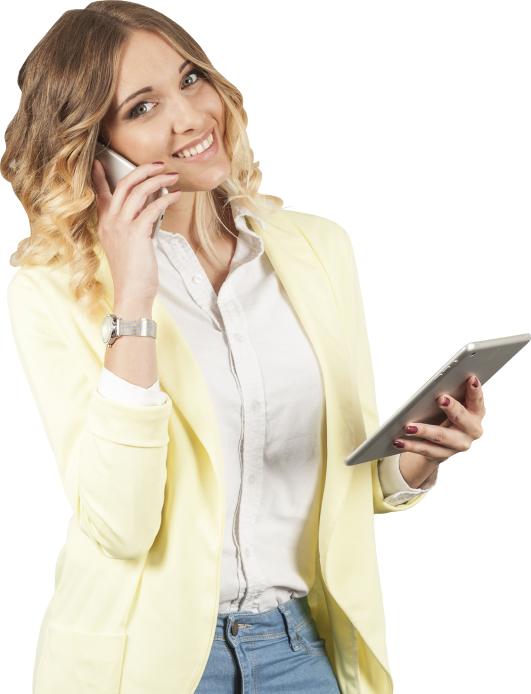
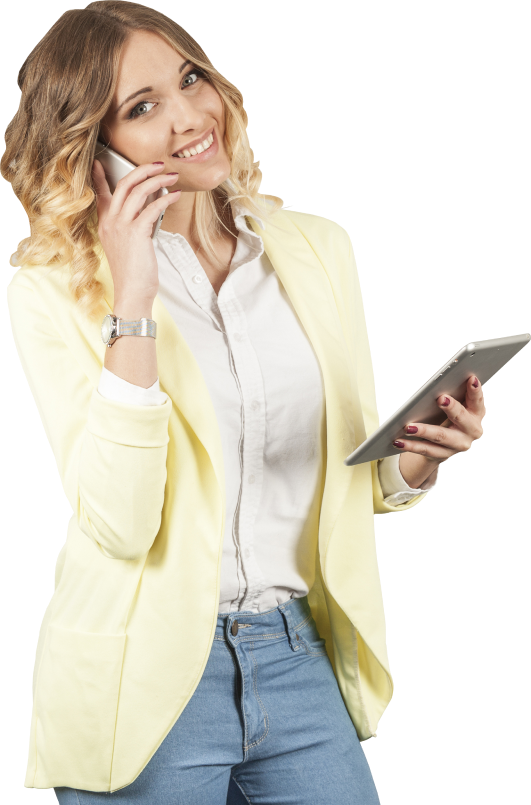
02-долгосрочные-беззалоговые.html

diff --git a/02-долгосрочные-беззалоговые.html b/02-долгосрочные-беззалоговые.html
@@ -4,7 +4,7 @@
     <meta http-equiv="Content-Type" content="text/html; charset=utf-8" />
     <meta name="format-detection" content="telephone=no">
     <meta name="viewport" content="width=device-width, initial-scale=1, user-scalable=no, maximum-scale=1">
-    <title>ФинРесурс - Краткосрочные беззалоговые займы</title>
+    <title>ФинРесурс - Долгосрочные беззалоговые займы</title>
     <meta name='description' content="" />
     <meta name="keywords" content="" />
     <link rel="stylesheet" type="text/css" href="css/style.css" />   
@@ -319,17 +319,17 @@
         
         <section class="section-top">
             <div class="wrapper">
-                <img src="img/image-section-top.png" alt="" class="section-top__img">
+                <img src="img/image-section-top-02.png" alt="" class="section-top__img section-top__img-02">
                 <div class="section-top__inner">
                     <ul class="breadcrumbs">
                         <li class="breadcrumbs-item">
                             <a href="#" class="breadcrumbs-item__link">Главная</a>
                         </li>
-                        <li class="breadcrumbs-item">Краткосрочные беззалоговые займы </li>
+                        <li class="breadcrumbs-item">Долгосрочные беззалоговые займы</li>
                     </ul>
                     <div class="title-box title-box_left">
-                        <h1 class="title">Краткосрочные <br>беззалоговые займы</h1>
-                        <div class="subtitle">До 15000 рублей</div>
+                        <h1 class="title">Долгосрочные <br>беззалоговые займы</h1>
+                        <div class="subtitle">Более 15000 рублей</div>
                     </div>
                     
                     <div class="title-2">Круглосуточно и без комиссии</div>
@@ -356,7 +356,7 @@
         <section class="section">
             <div class="wrapper">
                 <div class="title-box">
-                    <div class="subtitle">Лучший способ получить <br>краткосрочный беззалоговый займ</div>
+                    <div class="subtitle">Лучший способ получить <br>долгосрочный беззалоговый займ</div>
                     <h2 class="title">как получить деньги быстро?</h2>
                 </div>
                 
@@ -405,10 +405,11 @@
                 <div class="section-info">
                 <div class="title-box title-box_left">
                     <div class="subtitle">Нужны деньги? Лучшее решение это</div>
-                    <h2 class="title">краткосрочный беззалоговый заем</h2>
+                    <h2 class="title">долгосрочный беззалоговый заем</h2>
                 </div>
                 <div class="text text_btm">
-                    <p>Подавляющее большинство микрозаймов на 9000 рублей в нашей микрофинансовой компании выдаются на карту, и значит, вам не придётся никуда ехать. Заёмные денежные средства перечисляются на любую банковскую карточку через несколько минут после одобрения заявки. В том случае, если ваша карта неактивна, подайте и подтвердите заявку в режиме онлайн и получите наличные деньги без очередей и долгого ожидания в нашем отделении. Если в вашем городе отсутствует отделение «До Зарплаты», обратитесь с паспортом в один из офисов партнёров.</p>
+                    <p>Заёмщикам доступны разные способы получения микрокредита. Наибольшей популярностью пользуются срочные онлайн-займы на карту. Помимо этого, у вас есть возможность взять в долг наличные деньги, оформив микрозаём на сайте или в приложении, получив одобрение и обратившись с паспортом в офис МФО или партнёров «До Зарплаты». Отделения компании находятся в Санкт-Петербурге, Екатеринбурге, Мурманске, Уфе, Самаре и ещё 10 населённых пунктах. Жители Москвы и других городов могут получить наличные в офисах партнёров. С 2011 года наша микрофинансовая компания помогает жителям России решать срочные вопросы. Вы можете оперативно взять займ 20 000 рублей. Воспользоваться полученные средствами вы можете по своему усмотрению: на потребительские нужды, оплату услуг или срочное погашение банковского кредита.</p>
+                    <p>Зарегистрируйтесь на сайте, заполните анкету и укажите желаемый срок погашения кредита. В течение 7 минут вы получите sms-уведомление с одобрением или отказом. Отслеживать статус заявки удобно через личный кабинет. Получивший одобрение запрос следует подтвердить отправкой указанного в смс-оповещении кода. После привязки заявки к вашей банковской карте сумма будет переведена на  счет. Вы также можете получить деньги наличными в любом отделении нашего МФО.</p>
                 </div>
                 
                 <div class="block-info row">

diff --git a/css/style.css b/css/style.css
@@ -476,10 +476,10 @@ body.compensate-for-scrollbar { overflow: hidden; }
 .nav { font-size: 16px; line-height: 19px; color: #363636; white-space: nowrap; position: relative; }
 .nav-item { margin: 0 13px; padding: 40px 0; position: relative; display: inline-block; }
 .nav-item__link { color: inherit; }
-.nav-item__link:hover { color: #FFE24F; }
-.nav-item__link.active { color: #FFE24F; }
-.nav-item__link.highlited { color: #FFE24F; }
-.nav-item.hover .nav-item__link { color: #FFE24F; }
+.nav-item__link:hover { color: #FFD603; }
+.nav-item__link.active { color: #FFD603; }
+.nav-item__link.highlited { color: #FFD603; }
+.nav-item.hover .nav-item__link { color: #FFD603; }
 
 .header-phone { font-weight: 500; font-size: 18px; line-height: 23px; color: #363636; margin-left: 45px; }
 .header-phone:hover { color: #FFE24F; }
@@ -1019,7 +1019,7 @@ ul { list-style: none; }
 .block-about__video:hover span { color: #363636; }
 
 .text { font-size: 16px; line-height: 20px; color: rgba(71, 77, 80, 0.6); }
-.text p { padding-bottom: 20px; }
+.text p { padding-bottom: 45px; }
 .text p:last-child { padding-bottom: 0; }
 .text-title { font-weight: 500; font-size: 18px; line-height: 23px; padding-bottom: 20px; color: #363636; }
 .text-center { text-align: center; }
@@ -1085,9 +1085,10 @@ ul { list-style: none; }
 .popup__icon { text-align: center; margin-bottom: 20px; }
 .popup .col { padding-bottom: 35px; }
 
-.section-top { background: #EDEBDF; height: 760px; position: relative; }
+.section-top { background: #EDEBDF; height: 760px; position: relative; overflow: hidden; }
 .section-top .wrapper { height: 100%; }
-.section-top__img { position: absolute; bottom: 0; left: 50%; margin-left: 10px; }
+.section-top__img { position: absolute; bottom: -115px; left: 50%; margin-left: 10px; }
+.section-top__img-02 { margin-left: -40px; bottom: -215px; }
 .section-top__inner { max-width: 470px; height: 100%; padding-top: 52px; position: relative; z-index: 2; }
 .section-top .title-box { margin-bottom: 40px; }
 .section-top__text { color: #474D50; margin-bottom: 70px; }
@@ -1221,14 +1222,16 @@ ul { list-style: none; }
   .section-top .title br { display: none; }
   .section-top__inner { padding-top: 70px; max-width: 100%; }
   .section-top__text { max-width: 270px; }
-  .section-top__img { margin-left: -50px; width: 460px; }
+  .section-top__img { margin-left: -50px; width: 430px; bottom: -30px; }
   .section-info .title-box_left { text-align: center; }
   .text_btm { margin-bottom: 45px; }
   .col-3 { width: 50%; }
   .item-info { display: -webkit-box; display: -moz-box; display: -webkit-flex; display: -ms-flexbox; display: flex; -webkit-box-align: center; -moz-box-align: center; -ms-flex-align: center; -webkit-align-items: center; align-items: center; padding: 30px 15px 30px 30px; }
   .item-info__text { width: calc(100% - 60px); padding-left: 25px; }
   .item-info__img { margin-bottom: 0; }
-  .block-info { margin-bottom: 15px; } }
+  .block-info { margin-bottom: 15px; }
+  .text p { padding-bottom: 35px; }
+  .section-top__img-02 { margin-left: -60px; width: 470px; bottom: -90px; } }
 @media screen and (max-width: 740px) { .wrapper { padding: 0 20px; }
   .row { margin: 0 -10px -20px; }
   .col { padding: 0 10px 20px; }
@@ -1355,11 +1358,12 @@ ul { list-style: none; }
   .section-top__text { display: none; }
   .section-top__inner { padding-top: 43px; }
   .section-top { height: 510px; }
-  .section-top__img { margin-left: -100px; width: 270px; }
+  .section-top__img { margin-left: -100px; width: 245px; bottom: -15px; }
   .section-top .form-order-wrapper { max-width: 100%; position: absolute; bottom: 20px; left: 0; right: 0; }
   .text_btm { margin-bottom: 35px; }
   .item-info { padding: 25px 15px 25px 25px; }
-  .block-info { margin-bottom: 0; } }
+  .block-info { margin-bottom: 0; }
+  .section-top__img-02 { margin-left: -125px; width: 245px; bottom: -15px; } }
 @media screen and (max-width: 639px) { .loyal .col-4 { width: 100%; }
   .item-loyal { display: -webkit-box; display: -moz-box; display: -webkit-flex; display: -ms-flexbox; display: flex; -webkit-box-align: center; -moz-box-align: center; -ms-flex-align: center; -webkit-align-items: center; align-items: center; padding: 28px 10px 28px 20px; }
   .item-loyal__title { width: calc(100% - 60px); padding-left: 25px; }

diff --git a/scss/layout/_content.scss b/scss/layout/_content.scss
@@ -1203,7 +1203,7 @@ $circle-width: 0.075em;
     line-height: 20px;
     color: rgba(71, 77, 80, 0.6);
     p{
-        padding-bottom:20px;
+        padding-bottom:45px;
         &:last-child{
             padding-bottom: 0;
         }
@@ -1513,14 +1513,19 @@ $circle-width: 0.075em;
     background: #EDEBDF;
     height: 760px;
     position: relative;
+    overflow: hidden;
     .wrapper{
         height: 100%;
     }
     &__img{
         position: absolute;
-        bottom: 0;
+        bottom: -115px;
         left: 50%;
         margin-left: 10px;
+        &-02{
+            margin-left: -40px;
+            bottom: -215px;
+        }
     }
     &__inner{
         max-width: 470px;
@@ -2072,8 +2077,9 @@ $circle-width: 0.075em;
         max-width: 270px;
     }
     .section-top__img {
-        margin-left: -50px;
-        width: 460px;
+            margin-left: -50px;
+            width: 430px;
+            bottom: -30px;
     }
     .section-info .title-box_left{
         text-align: center;
@@ -2098,6 +2104,16 @@ $circle-width: 0.075em;
     }
     .block-info {
         margin-bottom: 15px;
+    }
+
+    .text p {
+        padding-bottom: 35px;
+    }
+
+    .section-top__img-02 {
+        margin-left: -60px;
+        width: 470px;
+        bottom: -90px;
     }
 }
 
@@ -2598,7 +2614,8 @@ $circle-width: 0.075em;
     }
     .section-top__img {
         margin-left: -100px;
-        width: 270px;
+        width: 245px;
+        bottom: -15px;
     }
     .section-top .form-order-wrapper {
         max-width: 100%;
@@ -2618,6 +2635,12 @@ $circle-width: 0.075em;
         margin-bottom: 0;
     }
     
+
+    .section-top__img-02 {
+        margin-left: -125px;
+        width: 245px;
+        bottom: -15px;
+    }
 }
 
 @media screen and (max-width: 639px) {

diff --git a/index.html b/index.html
@@ -1088,7 +1088,6 @@
                         </div>
                         <div class="text">
                                 <p>Наша цель — помогать вам быстро решать финансовые вопросы. Поэтому мы максимально упростили процесс обслуживания.  При этом вам не будут звонить операторы, от вас не потребуется.</p>
-                                <p></p>
                                 <div class="text-title">Работу нашей компании курируют:</div>
                                 <p>Надзорные органы Центрального Банка РФ, Федеральная Налоговая Служба, Росфинмониторинг</p>
                             </div>

diff --git a/scss/layout/_header.scss b/scss/layout/_header.scss
@@ -45,18 +45,18 @@
         &__link{
             color: inherit;            
             &:hover{
-                color: $color-yellow;
+                color: #FFD603;
             }          
             &.active{
-                color: $color-yellow;
+                color: #FFD603;
             }
             &.highlited{
-                color: $color-yellow;
+                color: #FFD603;
             }
         }
         &.hover{
             .nav-item__link{
-                color: $color-yellow;
+                color: #FFD603;
             }
         }
       

diff --git a/README.md b/README.md
@@ -2,5 +2,6 @@
  
 index.html<br>
 01-краткосрочные-беззалоговые.html<br>
+02-долгосрочные-беззалоговые.html<br>
 
 
